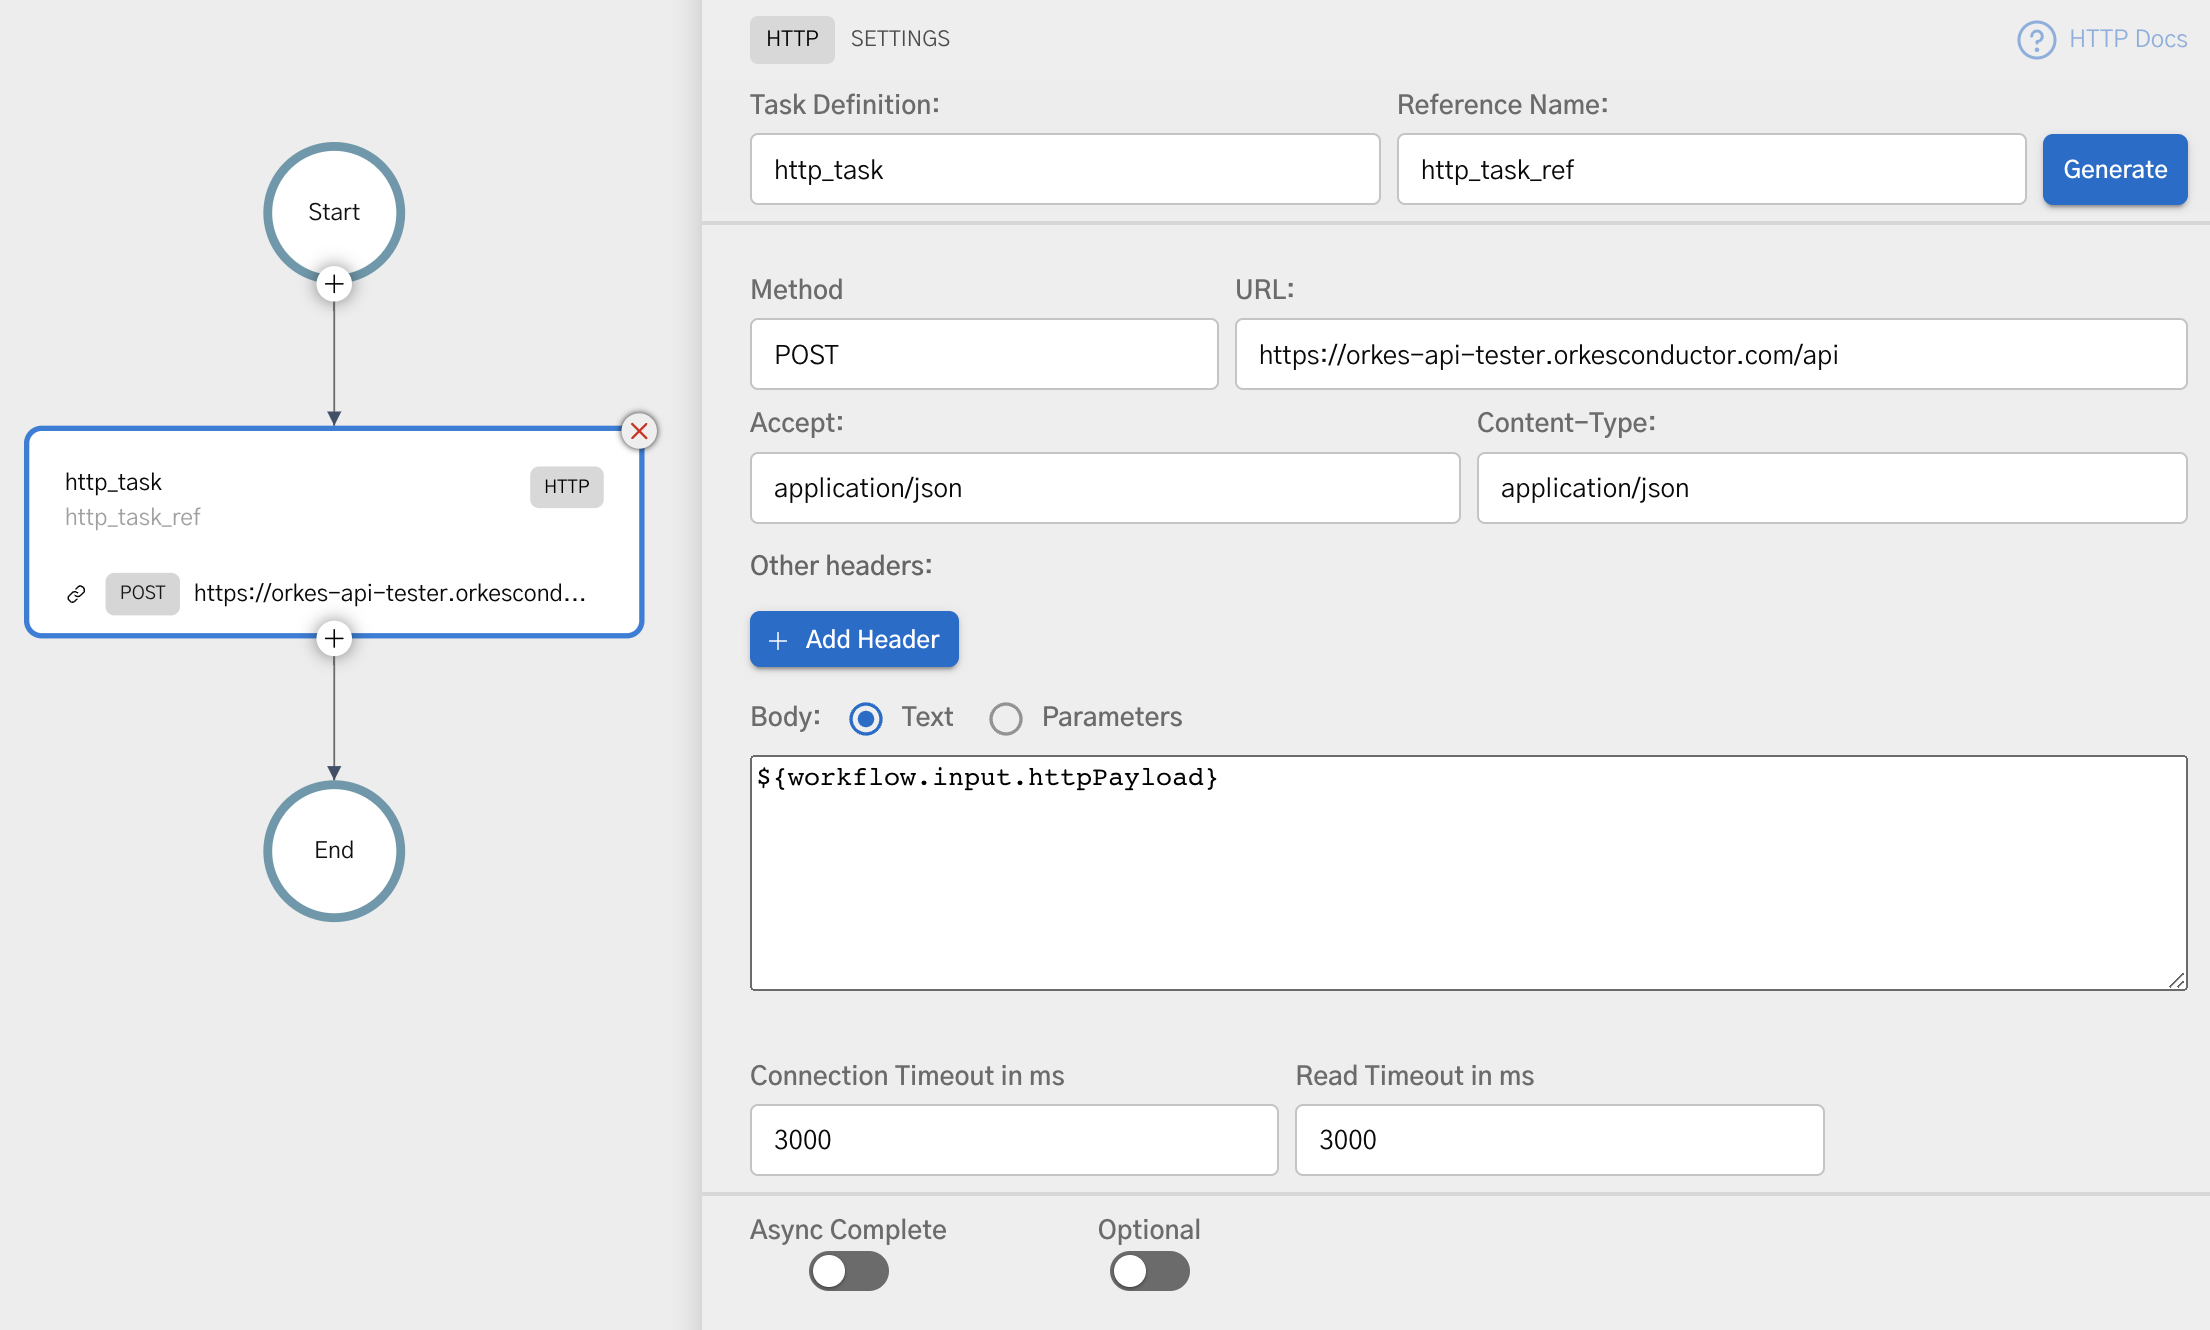
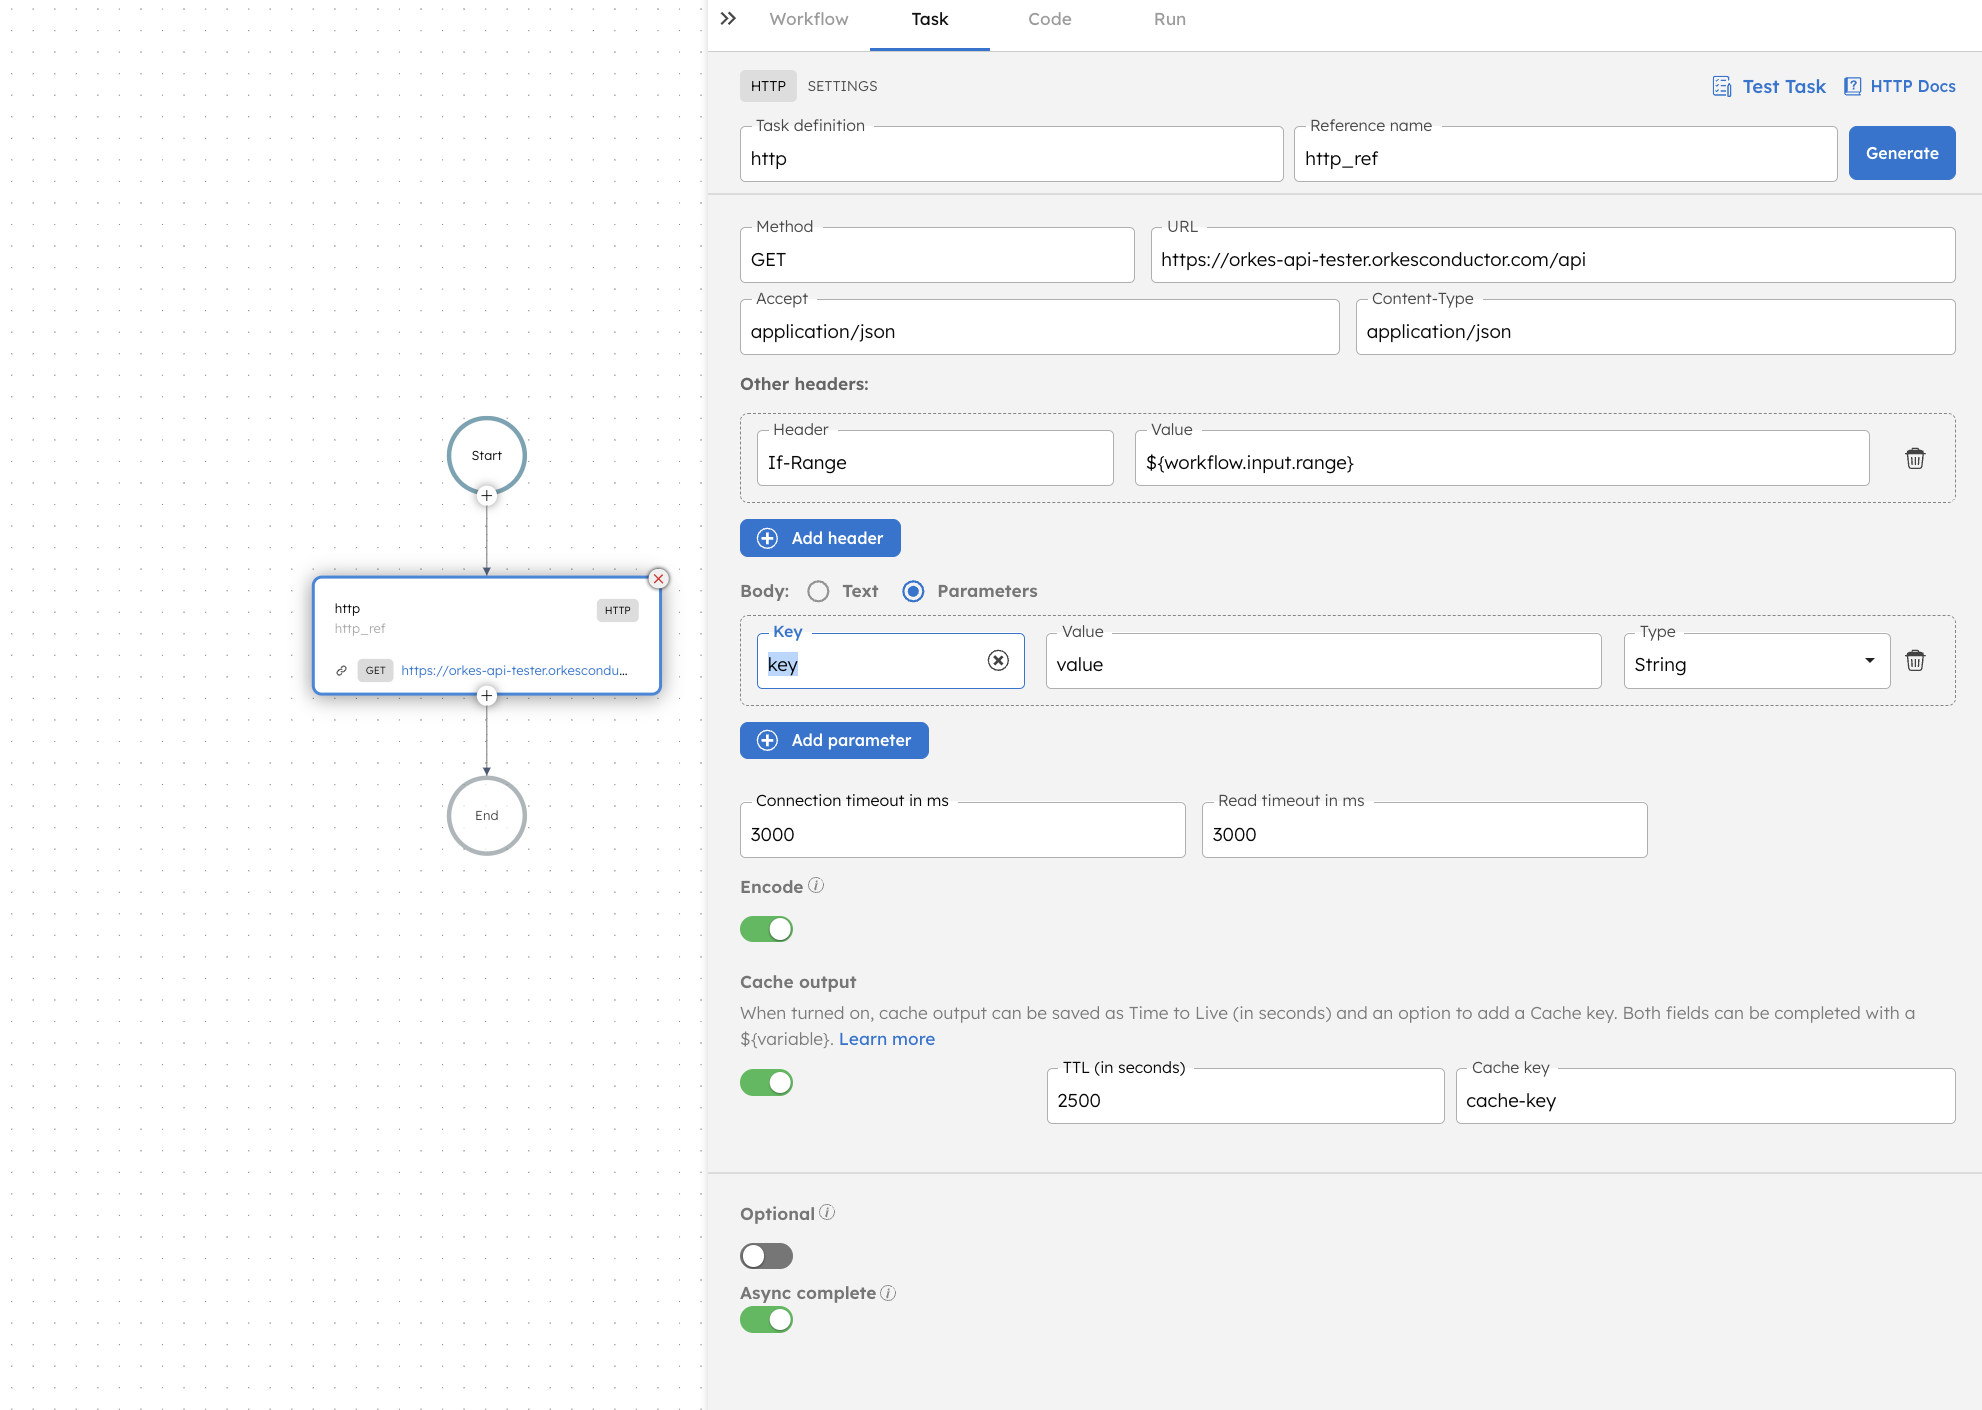
HTTP update

diff --git a/docs/reference-docs/system-tasks/http.md b/docs/reference-docs/system-tasks/http.md
@@ -7,47 +7,64 @@ import TabItem from '@theme/TabItem';
 
 # Call an HTTP Service (APIs, Rest)
 
-HTTP task allows you to make calls to remote services exposed over HTTP/HTTPS.
+HTTP task allows for making calls to remote services exposed over HTTP/HTTPS.
 
 ## Definitions
 
  ```json
-    {
-        "name": "http_task",
-        "taskReferenceName": "http_task_ref",
-        "type" : "HTTP",
-        "inputParameters": {
-            "uri": "https://catfact.ninja/fact",
-            "method": "GET",
-            "connectionTimeOut": 3000,
-            "readTimeOut": 3000
-        }
-    }
+   {
+     "name": "http",
+     "taskReferenceName": "http_ref",
+     "type": "HTTP",
+     "inputParameters": {
+       "uri": "https://orkes-api-tester.orkesconductor.com/api",
+       "method": "GET",
+       "connectionTimeOut": 3000,
+       "readTimeOut": "3000",
+       "accept": "application/json",
+       "contentType": "application/json",
+       "encode": true,
+       "headers": {
+         "If-Range": "${workflow.input.range}"
+       },
+       "body": {
+         "key": "value"
+       }
+     },
+     "cacheConfig": {
+       "ttlInSecond": 2500,
+       "key": "cache-key"
+     },
+     "optional": false,
+     "asyncComplete": true
+   }
 ```
 
 ### Input Parameters
 | Attribute         | Description                                                                                                                                                                      |
 |-------------------|----------------------------------------------------------------------------------------------------------------------------------------------------------------------------------|
-| uri               | Provide the URI for the service. It can be a partial value when using vipAddress or it can be the server address.                                                                |
-| method            | Choose the HTTP method. Conductor supports the methods: GET, HEAD, POST, PUT, PATCH, DELETE, and OPTIONS                                                                             |
-| accept            | Provide the accept header as required by the server. By default, it is set to **application/json**.                                                                              |
-| contentType       | Provide the content type for the server. The supported types are **text/plain**, **text/html**, and **application/json**. By default, it is set to **application/json**.         |
-| headers           | A map of additional http headers to be sent along with the request.                                                                                                              |
-| body              | Request body when using **POST** or **PUT**.                                                                                                                                     |
-| asyncComplete     | If set, the task remains in the **IN_PROGRESS** state even after the execution.  An external event (Task Update API or Event handler) is expected to mark the task as completed. 
-| connectionTimeOut | Set the connection timeout in milliseconds.  If set to 0, it is equivalent to infinity. By default, the value is set to 100.                                                     |
-| readTimeOut       | Set the read timeout in milliseconds.  If set to 0, it is equivalent to infinity. By default, the value is set to 150.                                                           |
+| uri               | Provide the URI for the service. It can be a partial value when using **_vipAddress_** or it can be the server address.                                                                |
+| method            | Choose the HTTP method. Conductor supports the methods: GET, HEAD, POST, PUT, PATCH, DELETE, OPTIONS, and TRACE.                                                                             |
+| accept            | Provide the accept header as required by the server. The supported types are:<ul><li>application/java-archive</li><li>application/EDI-X12</li><li>application/EDIFACT</li><li>application/javascript</li><li>application/octet-stream</li><li>application/ogg</li><li>application/pdf</li><li>application/xhtml+xml</li><li>application/x-shockwave-flash</li><li>application/json</li><li>application/ld+json</li><li>application/xml</li><li>application/zip</li><li>application/x-www-form-urlencoded</li><li>audio/mpeg</li><li>audio/x-ms-wma</li><li>audio/vnd.rn-realaudio</li><li>audio/x-wav</li><li>image/gif</li><li>image/jpeg</li><li>image/png</li><li>image/tiff</li><li>image/vnd.microsoft.icon</li><li>image/x-icon</li><li>image/vnd.djvu</li><li>image/svg+xml</li></ul>By default, it is set to **_application/json_**. You can also [pass any other headers as variables](https://orkes.io/content/developer-guides/passing-inputs-to-task-in-conductor). |
+| contentType       | Provide the content type for the server. The supported types are:<ul><li>application/java-archive</li><li>application/EDI-X12</li><li>application/EDIFACT</li><li>application/javascript</li><li>application/octet-stream</li><li>application/ogg</li><li>application/pdf</li><li>application/xhtml+xml</li><li>application/x-shockwave-flash</li><li>application/json</li><li>application/ld+json</li><li>application/xml</li><li>application/zip</li><li>application/x-www-form-urlencoded</li><li>audio/mpeg</li><li>audio/x-ms-wma</li><li>audio/vnd.rn-realaudio</li><li>audio/x-wav</li><li>image/gif</li><li>image/jpeg</li><li>image/png</li><li>image/tiff</li><li>image/vnd.microsoft.icon</li><li>image/x-icon</li><li>image/vnd.djvu</li><li>image/svg+xml</li></ul>By default, it is set to **_application/json_**. You can also [pass this parameter as a variable](https://orkes.io/content/developer-guides/passing-inputs-to-task-in-conductor). |
+| headers           | A map of additional HTTP headers to be sent along with the request. The supported types are:<ul><li>Accept-Language</li><li>Authorization</li><li>Cache Control</li><li>Content-MD5</li><li>From</li><li>If-Match</li><li>If-Modified-Since</li><li>If-None-Match</li><li>Max-Forwards</li><li>Pragma</li><li>If-Range</li><li>If-Unmodified-Since</li><li>Proxy-Authorization</li><li>Range</li><li>Warning</li><li>x-api-key</li><li>Accept-Charset</li><li>Accept-Encoding</li><li>Accept-Control-Request-Headers</li><li>Accept-Control-Request-Method</li><li>Content-Transfer-Encoding</li><li>Expect</li><li>Transfer-Encoding</li><li>Trailer</li></ul> | 
+| body              | Request body when using POST, PUT, or PATCH. It can be added as _text_ (**"body": "text"**) or _parameters_ such as string, number, boolean, null, or object/array. | 
+| connectionTimeOut | Set the connection timeout in milliseconds. If set to 0, it is equivalent to infinity. By default, the value is set to 3000.                                                 |
+| readTimeOut       | Set the read timeout in milliseconds. If set to 0, it is equivalent to infinity. By default, the value is set to 3000.                                     |
 | encode | Determines whether the URI needs encoding. When set to true (the default), the Conductor will automatically encode the query parameters before sending the HTTP request.<br/><br/>Set this to false if the URI is already encoded. In this case, the Conductor will assume the query parameters are properly encoded and pass them to the HTTP endpoint as specified in the URI. |
-| cacheConfig | Enabling this option allows saving the cache output of the task. On enabling you can provide the following parameters:<ul><li>**TTL (in seconds)** - Provide the time to live in seconds.You can also pass this parameter as variables.</li><li>**Cache Key** - Provide the cache key, which is a string with parameter substitution based on the task input. You can also pass this parameter as variables.</li></ul>|
+| cacheConfig | Enabling this option allows saving the cache output of the task. On enabling, you can provide the following parameters:<ul><li>**ttlInSecond** - Provide the time to live in seconds. You can also [pass this parameter as a variable](https://orkes.io/content/developer-guides/passing-inputs-to-task-in-conductor).</li><li>**Cache Key** - Provide the cache key, which is a string with parameter substitution based on the task input. You can also [pass this parameter as a variable](https://orkes.io/content/developer-guides/passing-inputs-to-task-in-conductor).</li></ul>|
+| optional | Enabling this option renders the task optional. The workflow continues unaffected by the task's outcome, whether it fails or remains incomplete. |
+| asyncComplete     | When turned on, task completion occurs asynchronously, with the task remaining in progress while waiting for external APIs or events to complete the task. |
 
 ### Output Parameters
 
 | Attribute    | Description                                                                  |
 |--------------|------------------------------------------------------------------------------|
-| response     | JSON body containing the response if present.                                |
-| headers      | Response Headers.                                                            |
-| statusCode   | [HTTP Status Code](https://en.wikipedia.org/wiki/List_of_HTTP_status_codes). |
-| reasonPhrase | HTTP Status Code's reason phrase.                                            |
+| response     | A JSON object representing the response, if present.                               |
+| headers      | An object containing the metadata about the response.                                                         |
+| statusCode   | Returns the [HTTP status code](https://en.wikipedia.org/wiki/List_of_HTTP_status_codes) indicating the success or failure of the request. |
+| reasonPhrase | Returns the reason phrase associated with the HTTP status code.                                           |
+| body | Returns the body of the response containing the actual data returned by the API. | 
 
 ## Examples
 
@@ -61,8 +78,8 @@ HTTP task allows you to make calls to remote services exposed over HTTP/HTTPS.
 <br/>
 <br/>
 
-1. Add task type `HTTP`.
-2. Configure the API by choosing method, endpoint, headers etc.
+1. Add task type **HTTP**.
+2. Configure the task by choosing method, endpoint, headers, etc.
 
 </div>
 <div className="col">
@@ -80,29 +97,39 @@ HTTP task allows you to make calls to remote services exposed over HTTP/HTTPS.
  <TabItem value="JSON" label="JSON">
 
 ```json
-    {
-      "name": "http_task",
-      "taskReferenceName": "http_task_ref",
-      "type": "HTTP",
-      "inputParameters": {
-        "http_request": {
-          "uri": "https://orkes-api-tester.orkesconductor.com/api",
-          "method": "POST",
-          "connectionTimeOut": 3000,
-          "readTimeOut": "3000",
-          "accept": "application/json",
-          "contentType": "application/json",
-          "body": "${workflow.input.httpPayload}"
-        }
-      }
-    }
+{
+     "name": "http",
+     "taskReferenceName": "http_ref",
+     "type": "HTTP",
+     "inputParameters": {
+       "uri": "https://orkes-api-tester.orkesconductor.com/api",
+       "method": "GET",
+       "connectionTimeOut": 3000,
+       "readTimeOut": "3000",
+       "accept": "application/json",
+       "contentType": "application/json",
+       "encode": true,
+       "headers": {
+         "If-Range": "${workflow.input.range}"
+       },
+       "body": {
+         "key": "value"
+       }
+     },
+     "cacheConfig": {
+       "ttlInSecond": 2500,
+       "key": "cache-key"
+     },
+     "optional": false,
+     "asyncComplete": true
+   }
 ```
 
 </TabItem>
 </Tabs>
 
 
-<details><summary>Send a POST Request</summary>
+<details><summary>Sample Task Definition for sending a POST request</summary>
 <p>
 
 ```json
@@ -126,38 +153,12 @@ HTTP task allows you to make calls to remote services exposed over HTTP/HTTPS.
 
 </p>
 </details>
-<details><summary>Set Read and Connect Timeouts for HTTP requests</summary>
+
+<details><summary>Sample Workflow utilizing “Async Complete” option</summary>
 <p>
+The "asyncComplete" option in the HTTP task configuration allows tasks to be marked as completed asynchronously, providing flexibility in workflow execution. Let's examine a detailed example to better understand its implementation.
 
-```json
-    {
-      "name": "http_post_example",
-      "taskReferenceName": "post_example",
-      "inputParameters": {
-        "http_request": {
-          "uri": "https://jsonplaceholder.typicode.com/posts/",
-          "method": "POST",
-          "readTimeout": 60000,
-          "connectionTimeout": 60000,
-          "body": {
-            "title": "${get_example.output.response.body.title}",
-            "userId": "${get_example.output.response.body.userId}",
-            "action": "doSomething"
-          }
-        }
-      },
-      "type": "HTTP"
-    }
-```
-
-</p>
-</details>
-
-<details><summary>Using Async Complete</summary>
-<p>
-While defining workflow definitions, we have a parameter, “asyncComplete”. Setting this parameter to “true” ensures that the task can be completed asynchronously only.
-
-Let’s have a look at an example workflow with “asynComplete:true”,
+Here’s a sample workflow with “asynComplete” set to “true”:
 
 ```json
 {
@@ -183,7 +184,7 @@ Let’s have a look at an example workflow with “asynComplete:true”,
    }
  ],
  "schemaVersion": 2,
- "ownerEmail": "riza.farheen@orkes.io"
+ "ownerEmail": "devrel@orkes.io"
 }
 ```
 
@@ -194,29 +195,27 @@ Now, let’s run this in the Playground.
 1. Under **Workflow Name**, choose **async_complete_example**.
 2. Click **Run Workflow**.
 
-On running this workflow, the HTTP task wouldn’t get completed; instead, it would be in a “Scheduled” state, i.e., the workflow is paused.
+Upon execution, the HTTP task remains “Scheduled” instead of completing immediately, allowing for asynchronous completion. There are various methods to update the task status to complete:
 
-There are multiple ways to update the task status to complete. 
+**Using API**
 
-#### Using API 
-
-Once the workflow is run, the workflowId will be generated. You can view the workflowId below the workflow name on the execution page.
+Once the workflow runs, note the generated **workflowId** displayed beneath the workflow name on the execution page. 
 
 <p align="center"><img src="/content/img/workflowid.png" alt="Workflow ID in Conductor" width="100%" height="auto"></img></p>
 
-By using the **workflowId** and the **taskRefName**, you can use the following API to complete the task.
+Utilize this **workflowId** along with the **taskRefName** to complete the task through the following API:
 
 ```
 POST /api/tasks/{workflowId}/{taskRefName}/{status}
 ```
-Another method to update the task status is directly from the UI.
+Another method is to directly update from the UI.
 
-#### From Conductor UI
+**From Conductor UI**
 
-From the workflow execution page, click on the task and then update the status manually to “COMPLETED”.
+From the workflow execution page, click on the task and manually update the status to “COMPLETED.”
 
 <p align="center"><img src="/content/img/workflow-status-update-from-ui.png" alt="Updating workflow status from Conductor UI" width="100%" height="auto"></img></p>
 
-So, using the above methods, you can asynchronously complete your workflow. This can be useful when you need to pause the workflow for external interventions.
+Employing these methods allows you to asynchronously complete your workflow, which is beneficial when pausing the workflow for external interventions.
 </p>
 </details>
